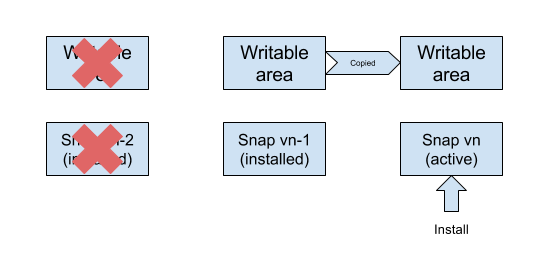
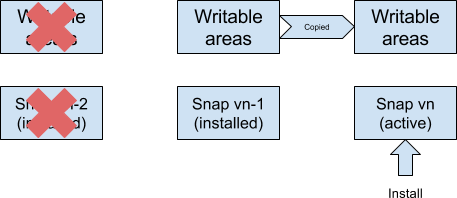
latest update

diff --git a/pages/snappy-dev/snap_metadata.md b/pages/snappy-dev/snap_metadata.md
@@ -8,7 +8,7 @@ permalink: /snappy-dev/snap_metadata/
 
 Snaps are defined by two sets of metadata specified in YAML files:
 
-- snapcraft.yaml, which defines the snap to be built, usually with snapcraft. This file is placed in the root of the directory in which the snap is to be built (for more information see [??](../placeholder)).
+- snapcraft.yaml, which defines the snap to be built, usually with snapcraft. This file is placed in the root of the directory in which the snap is to be built. It's used solely to define the snap's build and isn't included in the final snap. (For more information see [??](../placeholder)).
 - snap.yaml, which defines the content of the built snap and is placed in the root of the compressed snap file.
 
 The content of the two YAML files is similar, however snapcraft.yaml includes a definition of the parts included in a snap and their build systems (which the snap.yaml is missing) and the snap.yaml contains details of the architecture(s) the snap is built for.
@@ -23,7 +23,7 @@ Within a snap package the `snap.yaml` file is located in the `meta/` directory.
 ## Keys used in the snap.yaml 
 
 Key | Required | Description 
-:---- | ---- | ---- 
+:---- | ---- | :---- 
 <code>name</code> | Yes | The name of the snap. The name may use any combination of lower case letters and numbers plus the '-' character but must start with a letter.
 <code>version</code> | Yes | The version of the snap. The version can be defined with any combination of upper and lower case letters, number and the '.', '+', '~', and '-' characters.
 <code>summary</code> | No | A short summary of the snap.
@@ -35,33 +35,20 @@ Key | Required | Description
 <code>apps</code> | No | The map of apps (binaries and services) that a snap provides.
 <code>&nbsp;&nbsp;&nbsp;&lt;app name></code> | Yes | The name of the app or service.
 <code>&nbsp;&nbsp;&nbsp;&nbsp;&nbsp;&nbsp;command</code> | Yes |The command to start the application or service.
-<code>&nbsp;&nbsp;&nbsp;&nbsp;&nbsp;&nbsp;daemon</code>| Yes | The type of daemon that will run the device: `simple`, `forking`, `oneshot`, or `dbus`
-
-    * `stop-command`: (Optional) The command to stop the service.
-    * `stop-timeout`: (Optional) The time in seconds to wait for the service to stop
-    * `restart-condition`: (Optional) Specifies the restart
-      condition. Can be one of `on-failure` (default), `never`, `on-success`,
-      `on-abnormal`, `on-abort`,  and `always`. See `systemd.service(5)`
-      (search for `Restart=`) for details.
-    * `post-stop-command`: (Optional) A command that runs after the service has stopped.
-    * `slots`: A map of interfaces.
-<code>&nbsp;&nbsp;&nbsp;ports</code>| No | Defines which ports the service will work.
-<code>&nbsp;&nbsp;&nbsp;&nbsp;&nbsp;&nbsp;internal</code> | | The ports the service will to connect to.
-<code>&nbsp;&nbsp;&nbsp;&nbsp;&nbsp;&nbsp;tagname</code> | | A free form name.
-    * `ports`: (Optional) Defines which ports the service will work.
-        * `internal`: The ports the service will to connect to.
-            * `tagname`: A free form name.
-                * `port`: (Optional) Number/protocol, for example `80/tcp`.
-                * `negotiable`: (Optional) `Y` if the app can use a different port.
-        * `external`: The ports the service offers to the world.
-            * `tagname`: A free form name, some names have meaning like "ui".
-                * `port`: (Optional) Number/protocol, for example `80/tcp`.
-                * `negotiable`: (Optional) `Y` if the app can use a different port.
-    * `socket`: (Optional) Set to `true` if the service is socket activated. Must be specified with `listen-stream`.
-    * `listen-stream`: (Optional) The full path of the stream socket or an
-                abstract socket. When specifying an absolute path, it should
-                normally be in one of the app-specific writable directories.
-                When specifying an abstract socket, it must start with `@` and
-                typically be followed by either the snap package name or the
-                snap package name followed by `\_` and any other characters, for example  `@name` or `@name\_something`.
-* `slots`: A map of interfaces.
+<code>&nbsp;&nbsp;&nbsp;&nbsp;&nbsp;&nbsp;daemon</code>| Yes | The type of daemon that will run the application (as a service): `simple`, `forking`, `oneshot`, or `dbus`
+<code>&nbsp;&nbsp;&nbsp;&nbsp;&nbsp;&nbsp;stop-command</code> | No |  The command to stop the service.
+<code>&nbsp;&nbsp;&nbsp;&nbsp;&nbsp;&nbsp;stop-timeout</code> | No |  The time in seconds to wait for the service to stop
+<code>&nbsp;&nbsp;&nbsp;&nbsp;&nbsp;&nbsp;restart-condition</code> | No |  Specifies the restart       condition. Can be one of `on-failure` (default), `never`, `on-success`,       `on-abnormal`, `on-abort`,  and `always`. See `systemd.service(5)` (search for `Restart=`) for details.
+<code>&nbsp;&nbsp;&nbsp;&nbsp;&nbsp;&nbsp;post-stop-command</code> | No |  A command that runs after the service has stopped.
+<code>&nbsp;&nbsp;&nbsp;&nbsp;&nbsp;&nbsp;slots</code> | No | A map of interfaces.
+<code>&nbsp;&nbsp;&nbsp;&nbsp;&nbsp;&nbsp;ports</code> | No |  Defines which ports the service will work.
+<code>&nbsp;&nbsp;&nbsp;&nbsp;&nbsp;&nbsp;&nbsp;&nbsp;&nbsp;internal</code> | Yes | The ports the service will to connect to.
+<code>&nbsp;&nbsp;&nbsp;&nbsp;&nbsp;&nbsp;&nbsp;&nbsp;&nbsp;&nbsp;&nbsp;&nbsp;tagname</code> | Yes | A free form name.
+<code>&nbsp;&nbsp;&nbsp;&nbsp;&nbsp;&nbsp;&nbsp;&nbsp;&nbsp;&nbsp;&nbsp;&nbsp;&nbsp;&nbsp;&nbsp;port</code> | No |  Number/protocol, for example `80/tcp`.
+<code>&nbsp;&nbsp;&nbsp;&nbsp;&nbsp;&nbsp;&nbsp;&nbsp;&nbsp;&nbsp;&nbsp;&nbsp;&nbsp;&nbsp;&nbsp;negotiable</code> | No |  `Y` if the app can use a different port.
+<code>&nbsp;&nbsp;&nbsp;&nbsp;&nbsp;&nbsp;&nbsp;&nbsp;&nbsp;external</code> | Yes | The ports the service offers to the world.
+<code>&nbsp;&nbsp;&nbsp;&nbsp;&nbsp;&nbsp;&nbsp;&nbsp;&nbsp;&nbsp;&nbsp;&nbsp;tagname</code> | Yes | A free form name, some names have meaning like "ui".
+<code>&nbsp;&nbsp;&nbsp;&nbsp;&nbsp;&nbsp;&nbsp;&nbsp;&nbsp;&nbsp;&nbsp;&nbsp;&nbsp;&nbsp;&nbsp;port</code> | No |  Number/protocol, for example `80/tcp`.
+<code>&nbsp;&nbsp;&nbsp;&nbsp;&nbsp;&nbsp;&nbsp;&nbsp;&nbsp;&nbsp;&nbsp;&nbsp;&nbsp;&nbsp;&nbsp;negotiable</code> | No |  `Y` if the app can use a different port.
+<code>&nbsp;&nbsp;&nbsp;&nbsp;&nbsp;&nbsp;socket</code> | No |  Set to `true` if the service is socket activated. Must be specified with `listen-stream`.
+<code>&nbsp;&nbsp;&nbsp;&nbsp;&nbsp;&nbsp;listen-stream</code> | No |  The full path of the stream socket or an abstract socket. When specifying an absolute path, it should normally be in one of the app-specific writable directories. <br />When specifying an abstract socket, it must start with `@` and typically be followed by either the snap package name or the snap package name followed by `\_` and any other characters, for example  `@name` or `@name\_something`.

diff --git a/pages/snappy-dev/garbage.md b/pages/snappy-dev/garbage.md
@@ -7,51 +7,47 @@ permalink: /snappy-dev/garbage/
 
 (from https://developer.ubuntu.com/en/snappy/guides/garbage/) 
 
-As a snap package is updated, the old version is kept. This enables Ubuntu Core to rollback to an old, known to be good version if issues are detected in the updated snap. As these old copies take up disk space, to ensure they don’t take up too much disk space while preserving the ability to rollback, garbage collection is performed automatically.
+As a snap package is updated, the old version is kept. This enables a Snapd System to rollback to an old, known to be good version of a snap if issues are detected in the updated snap. These old copies take up disk space, so garbage collection is performed automatically to ensure they don’t take up too much space while preserving the ability to rollback snaps.
 
 A snap present in a system can be:
 
  - `installed` (but not active)
  - `active`
 
-When a snap is updated, the snap file for the latest version becomes the active snap file. The content from the previous snap version’s writeable area is copied to a new location for use by the updated snap.
+When a snap is updated, the snap file for the latest version becomes the active snap file. The content from the previous snap version’s writeable areas (SNAP_USER_DATA and SNAP_DATA) are copied to a new location, for use by the updated snap.
 
 ![Garbage collection removes older snap files ](/docs-demo/media/snappy-dev/garbage_collection.png)
 
-Garbage collection then removes and purges any snap files and their writeable areas for the snap versions prior to the one that has just been updated -- meaning that at most two versions of a snap will be present on the system. This saves disk space without compromising the ability to revert your system to a previous known-good state.
+Garbage collection then removes and purges any snap files and their writeable areas for the snap versions prior to the one that has just been updated -- meaning that at most two versions of a snap will be present on the system. This saves disk space without compromising the ability to revert the snap to a previous known-good state.
 
 Explicitly removing a snap from your system will also remove *and purge* all prior versions.
 
-You can disable garbage collection with the `--no-gc` commandline option, or when removing or purging a part, by specifying the version on which to operate explicitly.
+You can disable garbage collection with the `--no-gc` commandline option, or when removing or purging a snap, by specifying the version on which to operate explicitly.
 
 ## Example
 
-To illustrate the process take the example of installing and updating `hello-world` through a few versions. If you've version `1.0.1` installed, and do a `snappy update` it downloads version `1.0.2`:
+To illustrate the process take the example of installing and updating `hello-world` through a few versions. If you've version `1.0.1` installed, and do a `snap refresh` it downloads version `1.0.2`:
 
-    $ sudo snappy update
-    Installing hello-world.canonical (1.0.2)
-    Starting download of hello-world.canonical
-    30.99 KB / 30.99 KB [======================]
-    Done
-    Name        Date    Version Developer
-    hello-world 1-01-01 1.0.2   canonical
-    $ snappy list | grep hello
-    hello-world 2015-03-31 1.0.2   canonical
-    $ snappy list -v | grep hello
-    hello-world  2015-03-31 1.0.1   canonical
-    hello-world* 2015-03-31 1.0.2   canonical
+    $ sudo snap refresh
+    64.00 KB / 64.00 KB [======================] 100.00 % 4.62 KB/s    
+    Name                 Version               Rev  Developer  Notes
+    hello-world          1.0.2                 29   canonical  -
+    
+    $ snap list | grep hello
+    hello-world          1.0.2                 29   canonical  -
+    $ snap list -v | grep hello
+    hello-world          1.0.1                 10   canonical  -
+    hello-world*         1.0.2                 29   canonical  -
 
 so, `1.0.2`, was downloaded and made active, leaving `1.0.1` installed. Doing the upgrade again:
 
-    $ sudo snappy update
-    Installing hello-world.canonical (1.0.3)
-    Starting download of hello-world.canonical
-    30.99 KB / 30.99 KB [======================]
-    Done
-    Name        Date    Version Developer
-    hello-world 1-01-01 1.0.3   canonical
-    $ snappy list -v | grep hello
-    hello-world  2015-03-31 1.0.2   canonical
-    hello-world* 2015-03-31 1.0.3   canonical
+    $ sudo snap refresh
+    64.00 KB / 64.00 KB [======================] 100.00 % 4.62 KB/s
+    Name                 Version               Rev  Developer  Notes
+    hello-world          1.0.3                 15   canonical  -
+
+    $ snap list -v | grep hello
+    hello-world          1.0.2                 29   canonical  -
+    hello-world*         1.0.3                 15   canonical  -
 
 and `1.0.1` is gone.

diff --git a/pages/snappy-dev/ubuntu_core_desktop.md b/pages/snappy-dev/ubuntu_core_desktop.md
@@ -7,26 +7,27 @@ permalink: /snappy-dev/ubuntu_core_desktop/
 
 ## What is Ubuntu Core?
 
-Snappy Ubuntu Core is a lightweight, transactionally updated OS for devices targeted at the Internet of Things (IoT) space. It consists of a minimal `rootfs` and key services such as network. All other user features are added by installing additional snaps into a Snappy Ubuntu Core system or device. In simple terms, it can be though of as the smallest version of Ubuntu needed to support a system.
+Ubuntu Core is a lightweight, transactionally updated OS for devices targeted at the Internet of Things (IoT) space. It consists of a minimal `rootfs` and key services such as network. All other user features are added by installing additional snaps into a snapd system or device. In simple terms, it can be thought of as the smallest version of Ubuntu needed to support a system.
 
-Practical implementations of Snappy Ubuntu Core consist of:
+Practical implementations of Ubuntu Core in a snapd system consist of:
 
 - Kernel snap
-- Gabget snap
+- Gadget snap
 - OS snap  
 
 Ubuntu Core is delivered in the OS snap (see [Kinds of Snaps](../kinds_of_snaps "Kinds of Snaps") for more details on these and the other types of snaps). 
 
 ## Differences to Ubuntu Desktop
 
-Snappy Ubuntu Core diverges from the standard model of Server and Desktop Ubuntu distributions, the key differences are summarized in the table below:
+Ubuntu Core diverges from the standard model of server and desktop Ubuntu distributions, the key differences are summarized in the table below:
 
 Ubuntu Desktop | Ubuntu Core
----- | ----
+:---- | :----
+The base rootfs and kernel are delivered as a monolithic package that doesn't enable transactional updates. | OS and kernel delivered as separate snaps, offering transactional updates.
 Can be both a development and target platform. | Acts as a target platform only.
 Applications delivered in DEB packages or as snaps. | Applications delivered as snaps.
-- | Updated transactionally.
+The rootfs file system can be written to and therefore could be tampered with. | The rootfs file system is read only, preventing tampering.
  
 ## Release cycles
 
-New versions Ubuntu Core will be released every two years, with each release being referred to a "series" suffixed with the release year, so for example the current release is Series 16 and the next will be Series 18. 
+New versions of Ubuntu Core will be released every two years, with each release being referred to as a "series" suffixed with the release year. For example, the current release is Series 16 and the next will be Series 18. 

diff --git a/pages/snappy-dev/key_concepts.md b/pages/snappy-dev/key_concepts.md
@@ -4,8 +4,17 @@ title: Key Concepts
 permalink: /snappy-dev/key_concepts/
 ---
 # Key Concepts
-Snappy Ubuntu Core is a new rendition of Ubuntu with transactional updates. It provides a minimal server image with the same libraries as today’s Ubuntu, but applications are provided through a simpler mechanism.
+snapd technology offers a new way to package, distribute, update and run OS components and applications on a Linux system.
 
-In addition, it offers system features and applications additional security through isolation and other mechanisms.
+This section provides an overview to the key concepts and technologies that enable snapd systems, covering:
 
-In this section you will find introductions to all the key features of a snappy system and snaps.
+* the [core principals of the snapd system](../the_snappy_system), including the snap package, transactional updates and application confinement.
+* [Ubuntu Core](../ubuntu_core_desktop), a new minimal server image with the same libraries as today’s Ubuntu designed to be implemented in Canonical's snapd systems.
+* four [kinds of snaps](../kinds_of_snaps), three to implement the core OS and device and one type for applications.
+* a [store](../store) where snaps are distributed for both testing and final release.
+* a system for [securely adding information to snaps and store users](../assertions).
+* [interfaces](../interfaces) to enable applications to access OS features or share features with other applications.
+* [transational updates](../transactional_updates) that enable snaps to be updated easily and rolled back if needed.
+* [garbage collection](../garbage) to ensure old versions of snaps are appropriately removed from devices.
+
+At the end of this section you'll have an understanding of what the snapd system is about and be ready to move onto the next section, which looks at the [architecture of snaps in detail](../architecture_of_snaps).
